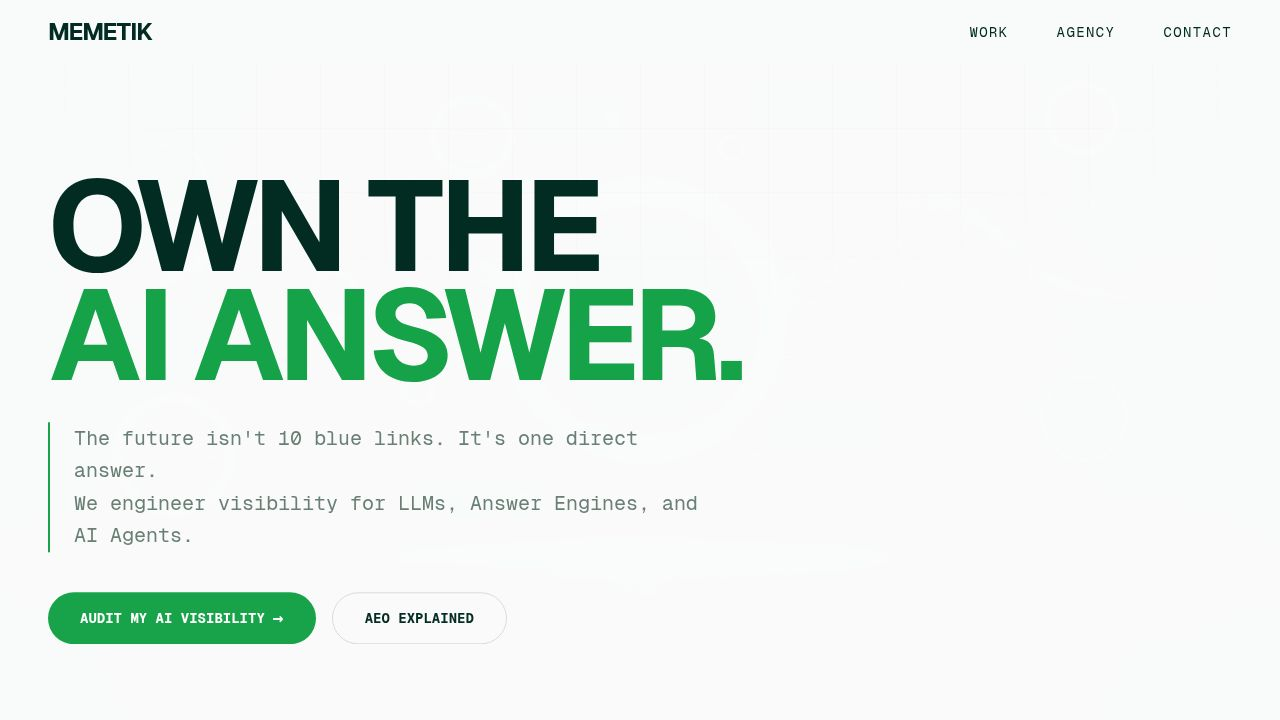
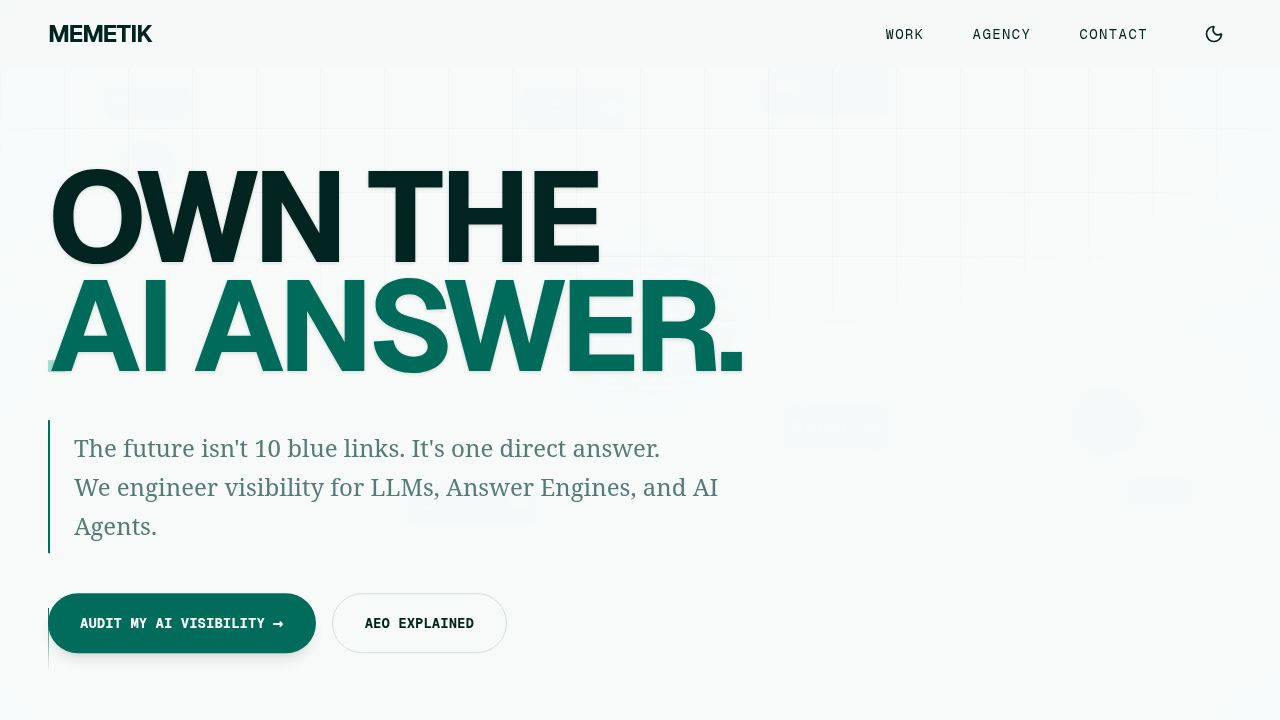
Enhance website's modern and elegant user experience with visual improvements
Introduce parallax scrolling to the hero section, refine service card interactions with glass-like hover effects and gradient backgrounds, and improve the visual hierarchy and animations of methodology steps.

Replit-Commit-Author: Agent
Replit-Commit-Session-Id: 2ed9f74f-dd86-4817-b0c5-32ac4f35b612
Replit-Commit-Checkpoint-Type: full_checkpoint
Replit-Commit-Event-Id: cf990415-ac16-4296-9264-99c65db29b5c
Replit-Commit-Screenshot-Url: https://storage.googleapis.com/screenshot-production-us-central1/a60971d7-1866-40d0-94d4-bcf0c545c3b5/2ed9f74f-dd86-4817-b0c5-32ac4f35b612/kuhPP8d
Replit-Helium-Checkpoint-Created: true

diff --git a/client/src/components/Hero.tsx b/client/src/components/Hero.tsx
@@ -1,35 +1,45 @@
-import { motion } from "framer-motion";
+import { motion, useScroll, useTransform } from "framer-motion";
 import heroBg from "@assets/generated_images/abstract_ai_search_visualization_with_data_nodes_and_connections_in_light_theme_colors.png";
 
 export function Hero() {
+  const { scrollY } = useScroll();
+  const y = useTransform(scrollY, [0, 500], [0, 200]);
+  const opacity = useTransform(scrollY, [0, 300], [1, 0]);
+
   return (
     <section className="relative min-h-screen w-full flex items-center justify-center overflow-hidden bg-background text-foreground">
-      {/* Background Image with Overlay */}
-      <div className="absolute inset-0 z-0 opacity-20 mix-blend-overlay">
+      {/* Background Image with Overlay - Parallax Effect */}
+      <motion.div style={{ y }} className="absolute inset-0 z-0 opacity-30 mix-blend-overlay">
         <img
           src={heroBg}
           alt="AI Search Network Visualization"
-          className="w-full h-full object-cover grayscale contrast-125"
+          className="w-full h-full object-cover grayscale contrast-125 scale-105"
         />
-        <div className="absolute inset-0 bg-background/50" />
-      </div>
+        <div className="absolute inset-0 bg-background/40 backdrop-blur-[1px]" />
+      </motion.div>
       
       {/* Subtle data grid instead of construction lines */}
-      <div className="absolute inset-0 z-0 bg-[linear-gradient(to_right,#e5e7eb_1px,transparent_1px),linear-gradient(to_bottom,#e5e7eb_1px,transparent_1px)] bg-[size:4rem_4rem] [mask-image:radial-gradient(ellipse_60%_50%_at_50%_0%,#000_70%,transparent_100%)] opacity-10"></div>
+      <div className="absolute inset-0 z-0 bg-[linear-gradient(to_right,var(--color-primary)_1px,transparent_1px),linear-gradient(to_bottom,var(--color-primary)_1px,transparent_1px)] bg-[size:4rem_4rem] [mask-image:radial-gradient(ellipse_60%_50%_at_50%_0%,#000_70%,transparent_100%)] opacity-[0.03]"></div>
 
-      <div className="relative z-10 container px-6 md:px-12 flex flex-col gap-8 pt-24">
+      <div className="relative z-10 container px-6 md:px-12 flex flex-col gap-10 pt-24">
         <motion.div
-          initial={{ opacity: 0, y: 100 }}
-          animate={{ opacity: 1, y: 0 }}
-          transition={{ duration: 0.8, ease: [0.16, 1, 0.3, 1] }}
+          initial={{ opacity: 0, y: 100, filter: "blur(10px)" }}
+          animate={{ opacity: 1, y: 0, filter: "blur(0px)" }}
+          transition={{ duration: 1, ease: [0.16, 1, 0.3, 1] }}
         >
            {/* Badge removed as requested */}
            
-          <h1 className="text-6xl md:text-8xl lg:text-9xl font-display font-bold leading-[0.85] tracking-tighter text-foreground">
+          <h1 className="text-6xl md:text-8xl lg:text-9xl font-display font-bold leading-[0.85] tracking-tighter text-foreground drop-shadow-sm">
             OWN THE
             <br />
-            <span className="text-primary">
+            <span className="text-primary relative inline-block">
               AI ANSWER.
+              <motion.span 
+                initial={{ width: "0%" }}
+                animate={{ width: "100%" }}
+                transition={{ delay: 0.8, duration: 1, ease: "easeInOut" }}
+                className="absolute bottom-2 left-0 h-[0.1em] bg-accent/30 -z-10"
+              />
             </span>
           </h1>
         </motion.div>
@@ -38,20 +48,20 @@ export function Hero() {
           initial={{ opacity: 0, y: 20 }}
           animate={{ opacity: 1, y: 0 }}
           transition={{ delay: 0.4, duration: 0.8, ease: [0.16, 1, 0.3, 1] }}
-          className="max-w-2xl flex flex-col gap-6"
+          className="max-w-2xl flex flex-col gap-8"
         >
-          <p className="text-lg md:text-xl font-mono text-muted-foreground leading-relaxed border-l-2 border-primary pl-6">
+          <p className="text-xl md:text-2xl font-serif text-muted-foreground leading-relaxed border-l-2 border-primary pl-6 py-2">
             The future isn't 10 blue links. It's one direct answer.
             <br />
             We engineer visibility for LLMs, Answer Engines, and AI Agents.
           </p>
           
-          <div className="flex flex-wrap gap-4 mt-4">
-             <button className="px-8 py-3 bg-primary text-primary-foreground font-mono font-bold text-sm hover:bg-primary/90 transition-all flex items-center gap-2 rounded-full">
+          <div className="flex flex-wrap gap-4 mt-2">
+             <button className="group px-8 py-4 bg-primary text-primary-foreground font-mono font-bold text-sm hover:bg-primary/90 transition-all flex items-center gap-2 rounded-full shadow-lg hover:shadow-primary/25 hover:-translate-y-0.5">
                AUDIT MY AI VISIBILITY
-               <span className="text-lg">→</span>
+               <span className="text-lg group-hover:translate-x-1 transition-transform">→</span>
              </button>
-             <button className="px-8 py-3 border border-border text-foreground font-mono font-bold text-sm hover:bg-secondary/10 transition-colors hover:border-primary/50 rounded-full">
+             <button className="px-8 py-4 border border-border text-foreground font-mono font-bold text-sm hover:bg-secondary/5 transition-colors hover:border-primary/50 rounded-full">
                AEO EXPLAINED
              </button>
           </div>
@@ -60,13 +70,11 @@ export function Hero() {
       
       {/* Scroll Indicator */}
       <motion.div 
-        initial={{ opacity: 0 }}
-        animate={{ opacity: 1 }}
-        transition={{ delay: 1, duration: 1 }}
+        style={{ opacity }}
         className="absolute bottom-12 left-6 md:left-12 text-xs font-mono text-muted-foreground flex items-center gap-3"
       >
-        <div className="w-px h-12 bg-border"></div>
-        SCROLL TO EXPLORE
+        <div className="w-px h-16 bg-gradient-to-b from-primary to-transparent"></div>
+        <span className="writing-vertical-lr rotate-180">SCROLL TO EXPLORE</span>
       </motion.div>
     </section>
   );

diff --git a/client/src/components/MethodologySummary.tsx b/client/src/components/MethodologySummary.tsx
@@ -50,31 +50,37 @@ export function MethodologySummary() {
             key={phase.id}
             initial={{ opacity: 0, y: 20 }}
             whileInView={{ opacity: 1, y: 0 }}
-            viewport={{ once: true }}
-            transition={{ delay: index * 0.1 }}
-            className="group relative border-b border-border py-12 md:py-16 transition-colors hover:bg-secondary/10"
+            viewport={{ once: true, margin: "-100px" }}
+            transition={{ delay: index * 0.1, duration: 0.6 }}
+            className="group relative border-b border-border/50 py-16 md:py-24 transition-all hover:bg-secondary/5"
           >
-            <div className="grid grid-cols-1 md:grid-cols-12 gap-6 md:gap-8 items-center">
+            <div className="absolute inset-0 bg-gradient-to-r from-primary/5 to-transparent opacity-0 group-hover:opacity-100 transition-opacity duration-700 pointer-events-none" />
+            
+            <div className="grid grid-cols-1 md:grid-cols-12 gap-8 md:gap-12 items-center relative z-10">
               {/* Number */}
-              <div className="col-span-1 md:col-span-1 font-mono text-lg text-primary/50 group-hover:text-primary transition-colors font-bold">
-                /{phase.id}
+              <div className="col-span-1 md:col-span-1">
+                <span className="font-mono text-xl text-primary/30 group-hover:text-primary transition-colors duration-500 font-bold block transform group-hover:-translate-y-1 group-hover:scale-110 origin-left">
+                  /{phase.id}
+                </span>
               </div>
 
-              {/* Title - Icons removed */}
-              <div className="col-span-11 md:col-span-4 flex items-center">
-                <h3 className="text-2xl md:text-4xl font-display font-bold tracking-tight text-foreground group-hover:text-primary transition-colors">
+              {/* Title */}
+              <div className="col-span-11 md:col-span-5 flex items-center">
+                <h3 className="text-3xl md:text-5xl font-display font-bold tracking-tight text-foreground group-hover:text-primary transition-colors duration-300">
                   {phase.title}
                 </h3>
               </div>
 
               {/* Description */}
-              <div className="col-span-12 md:col-span-6 font-sans text-muted-foreground leading-relaxed text-lg md:pl-8 border-l-0 md:border-l border-border/50">
+              <div className="col-span-12 md:col-span-5 font-serif text-muted-foreground leading-relaxed text-lg md:text-xl md:pl-8 border-l-0 md:border-l border-border/50 group-hover:border-primary/30 transition-colors duration-500">
                 {phase.description}
               </div>
               
               {/* Arrow */}
-              <div className="col-span-12 md:col-span-1 flex justify-end items-center h-full opacity-0 group-hover:opacity-100 transition-opacity hidden md:flex">
-                 <ArrowRight className="w-8 h-8 text-primary -rotate-45 group-hover:rotate-0 transition-transform duration-300" />
+              <div className="col-span-12 md:col-span-1 flex justify-end items-center h-full opacity-0 group-hover:opacity-100 transition-all duration-500 transform translate-x-[-20px] group-hover:translate-x-0 hidden md:flex">
+                 <div className="p-3 rounded-full border border-primary/20 bg-background/50 backdrop-blur-sm">
+                   <ArrowRight className="w-6 h-6 text-primary -rotate-45 group-hover:rotate-0 transition-transform duration-500 cubic-bezier(0.34, 1.56, 0.64, 1)" />
+                 </div>
               </div>
             </div>
           </motion.div>

diff --git a/client/src/components/Services.tsx b/client/src/components/Services.tsx
@@ -32,30 +32,32 @@ export function Services() {
             initial={{ opacity: 0, y: 20 }}
             whileInView={{ opacity: 1, y: 0 }}
             viewport={{ once: true }}
-            transition={{ delay: index * 0.2 }}
-            className="group flex flex-col gap-6 p-8 border border-border hover:border-primary transition-colors bg-secondary/10 hover:bg-secondary/30 relative overflow-hidden"
+            transition={{ delay: index * 0.1, duration: 0.5 }}
+            className="group flex flex-col gap-6 p-8 border border-border/50 hover:border-primary/30 transition-all duration-500 bg-secondary/5 hover:bg-secondary/10 relative overflow-hidden rounded-xl hover:shadow-2xl hover:shadow-primary/5 hover:-translate-y-1"
           >
-            <div className="absolute top-0 right-0 p-2 opacity-20 group-hover:opacity-100 transition-opacity">
+            <div className="absolute inset-0 bg-gradient-to-br from-primary/5 via-transparent to-transparent opacity-0 group-hover:opacity-100 transition-opacity duration-500" />
+            
+            <div className="absolute top-0 right-0 p-4 opacity-50 group-hover:opacity-100 transition-opacity duration-500 transform group-hover:rotate-12 group-hover:scale-110">
                <Sparkles className="text-accent w-6 h-6" />
             </div>
 
-            <div className="text-primary group-hover:text-accent transition-colors">
+            <div className="relative z-10 text-primary group-hover:text-accent transition-colors duration-300">
               {service.icon}
             </div>
             
-            <h3 className="text-2xl font-display font-bold tracking-tight text-foreground">
+            <h3 className="relative z-10 text-2xl font-display font-bold tracking-tight text-foreground group-hover:text-primary transition-colors duration-300">
               {service.title}
             </h3>
             
-            <p className="font-mono text-sm text-muted-foreground leading-relaxed">
+            <p className="relative z-10 font-serif text-lg text-muted-foreground leading-relaxed">
               {service.description}
             </p>
             
-            <div className="mt-auto pt-6 border-t border-border group-hover:border-primary/30">
-              <ul className="flex flex-col gap-2">
+            <div className="relative z-10 mt-auto pt-6 border-t border-border/50 group-hover:border-primary/20 transition-colors duration-300">
+              <ul className="flex flex-col gap-3">
                 {service.tags.map((tag, i) => (
-                  <li key={i} className="flex items-center gap-2 font-mono text-xs text-neutral-400 group-hover:text-neutral-300">
-                    <span className="w-1 h-1 bg-primary rounded-full" />
+                  <li key={i} className="flex items-center gap-3 font-mono text-xs text-muted-foreground/80 group-hover:text-foreground/80 transition-colors">
+                    <span className="w-1.5 h-1.5 bg-primary/50 group-hover:bg-accent rounded-full transition-colors duration-300" />
                     {tag}
                   </li>
                 ))}
